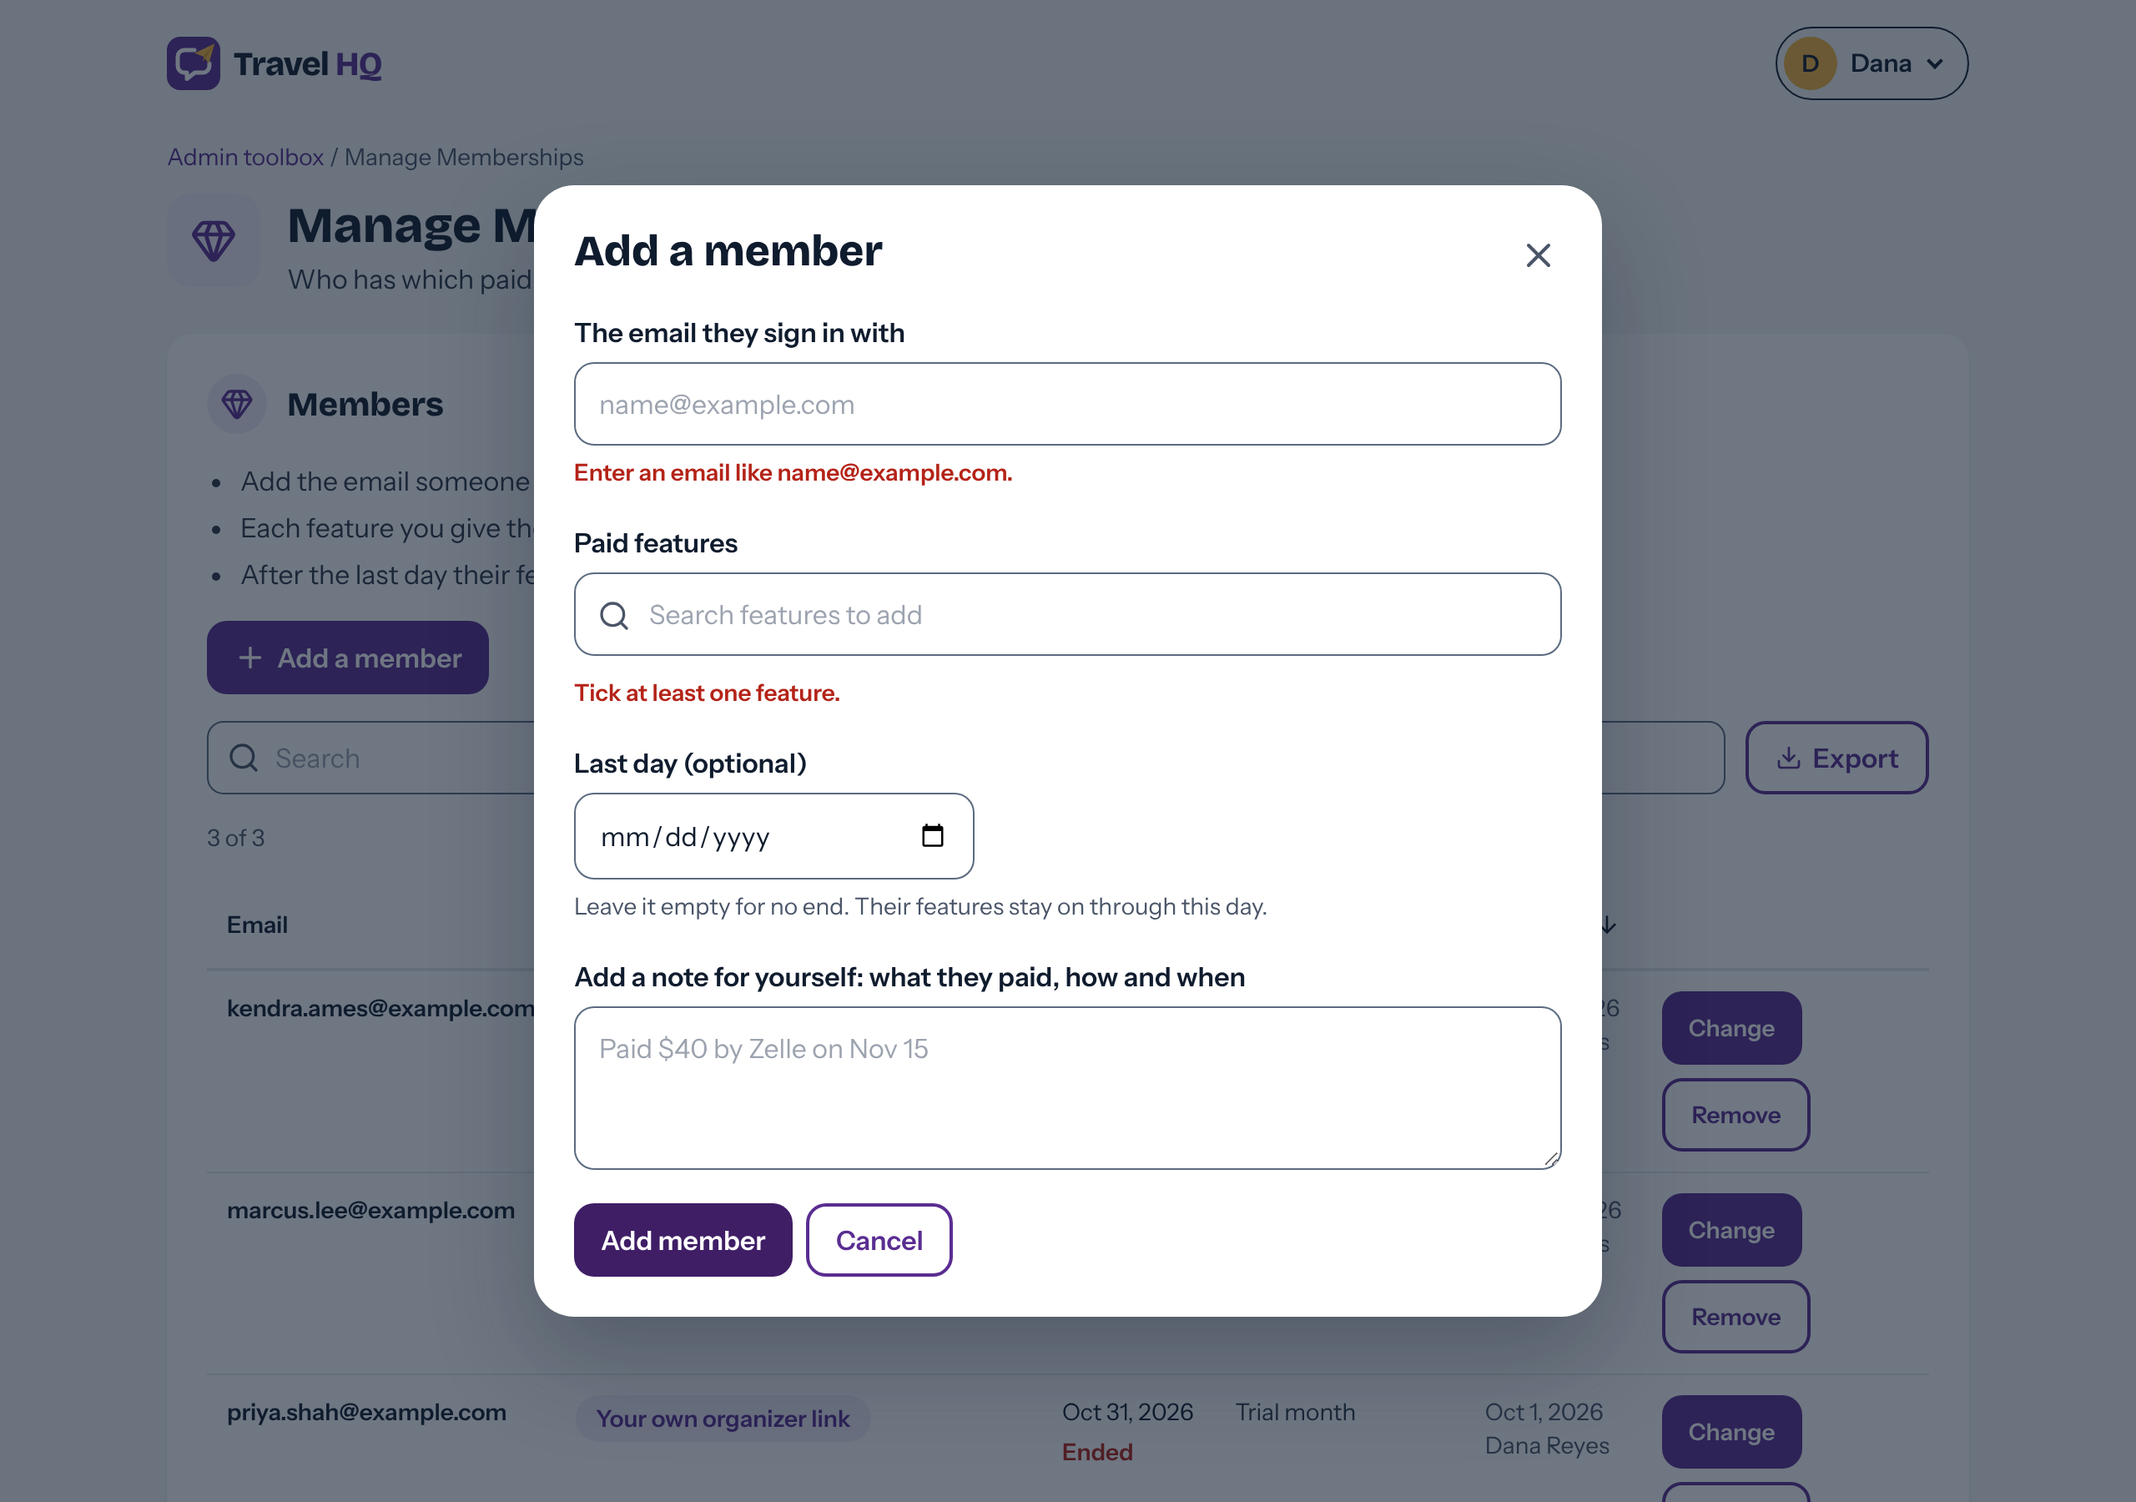
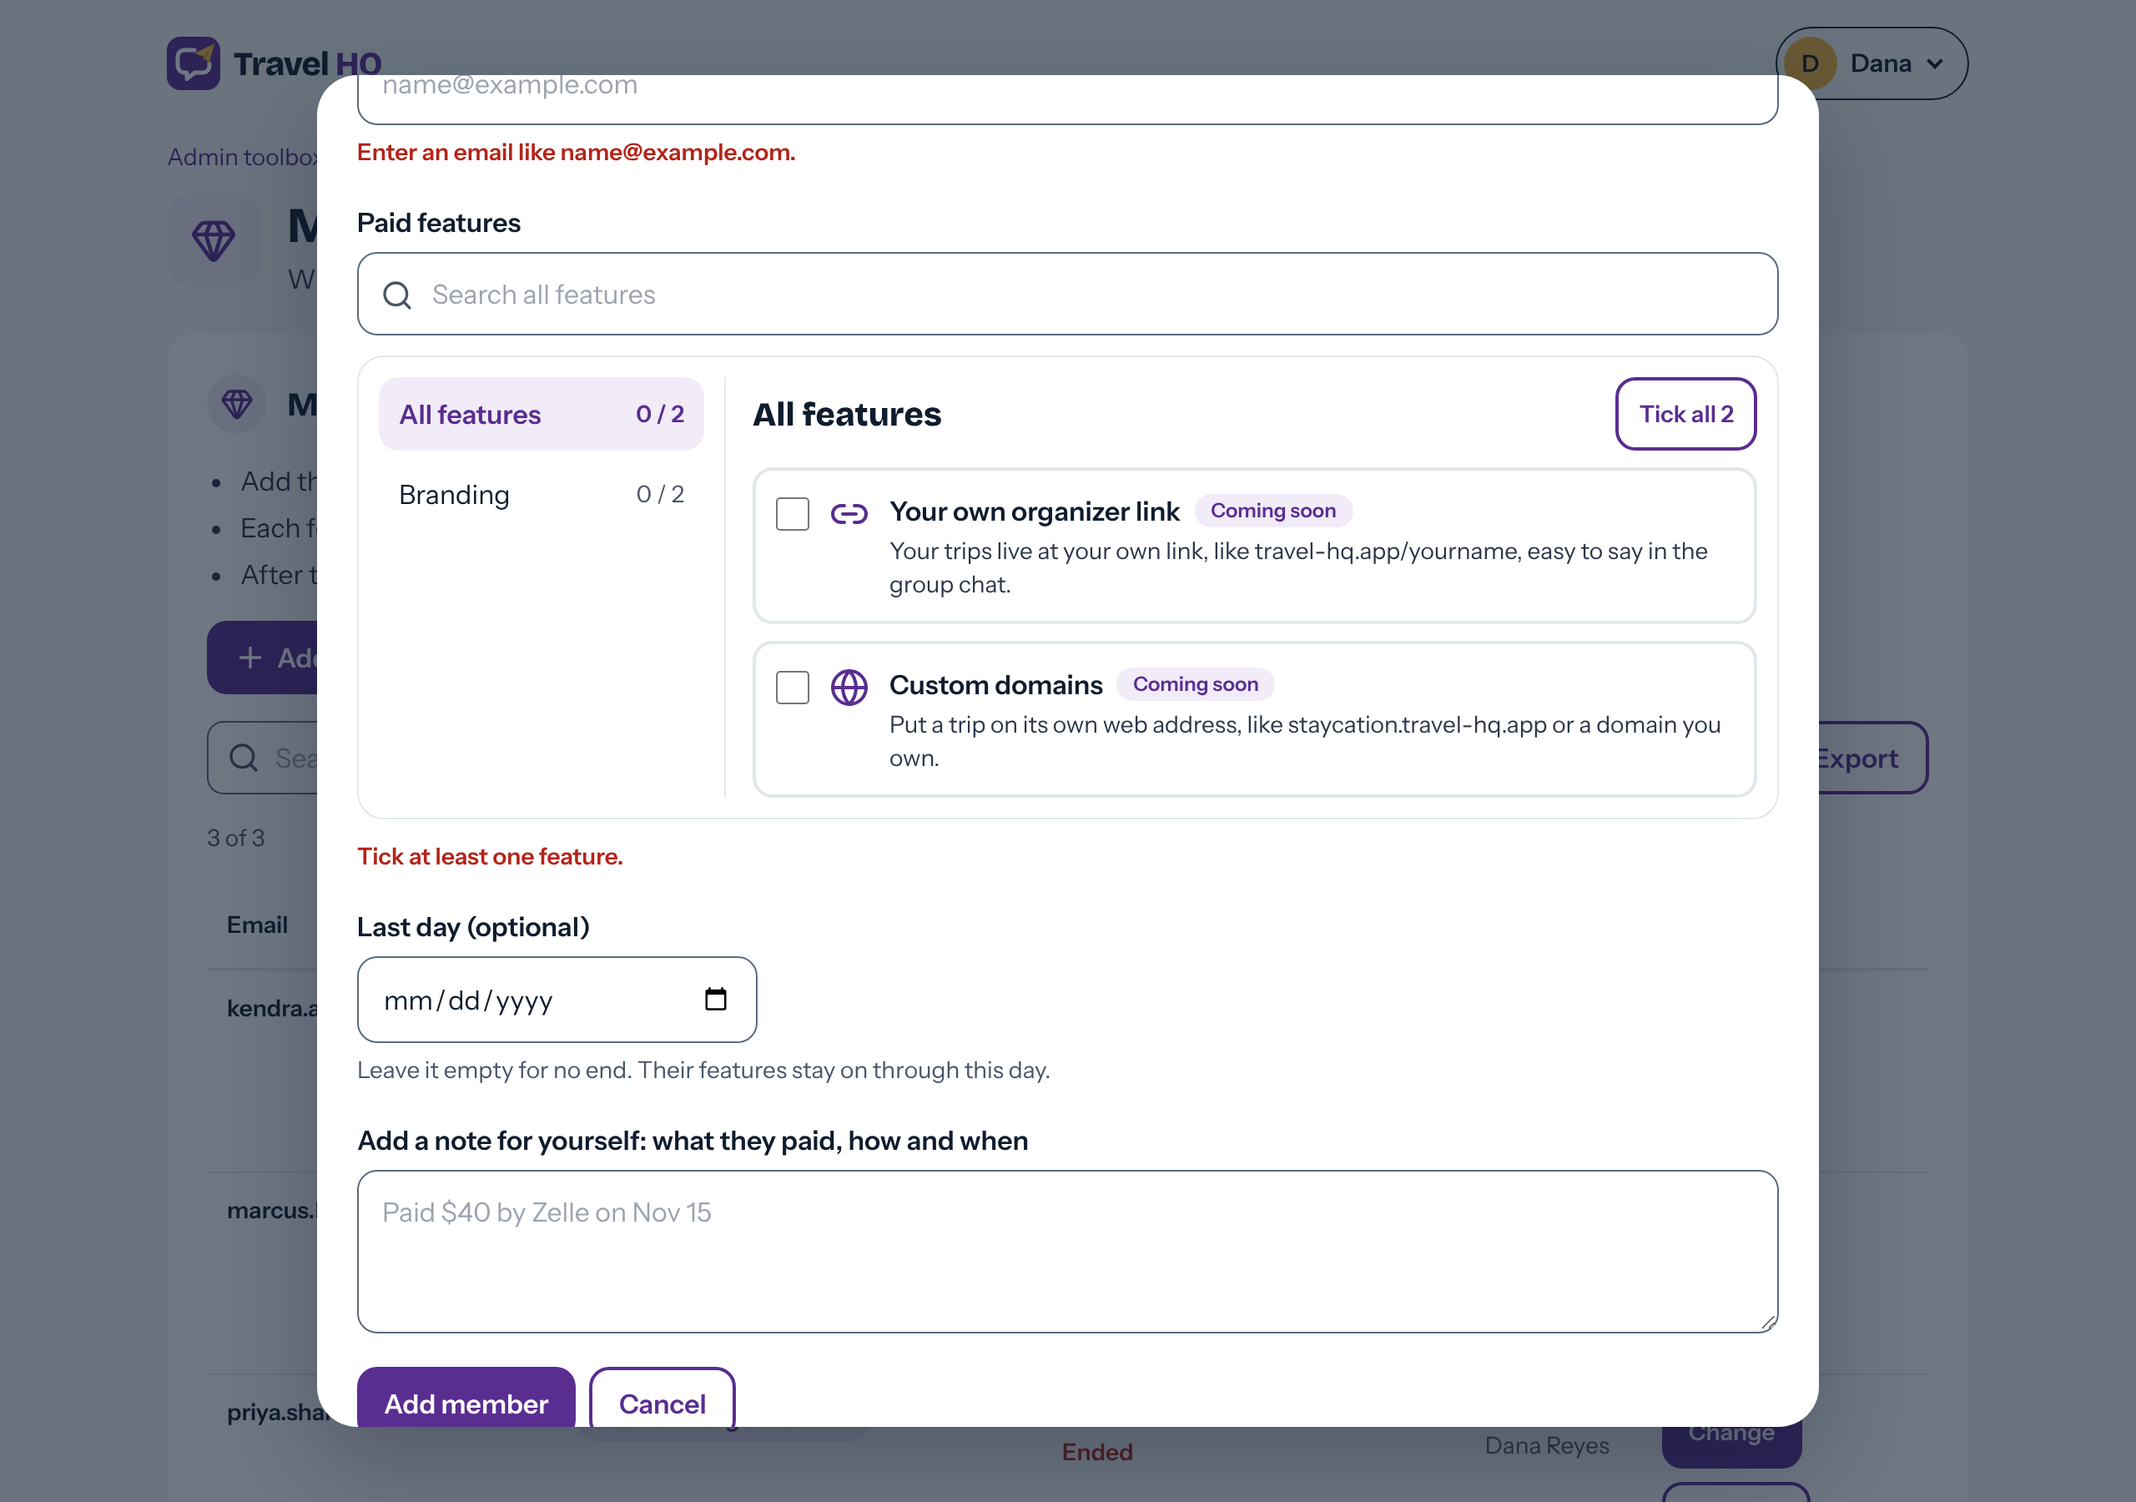
[Platform] Paid features grouped in buckets: buckets left, features right
Each paid feature names its bucket in code (PAID_FEATURES). The member
dialog lists the buckets with counts on the left and the chosen bucket's
features as tick tiles on the right, with Tick all and a search across
every feature. A bucket only ticks features; nothing about buckets is
stored. No help answers changed.

Refs #90

Changed region(s): [[0.125, 0.0311, 0.875, 0.9644]]

diff --git a/apps/web/src/pages/AdminMembershipsPage.tsx b/apps/web/src/pages/AdminMembershipsPage.tsx
@@ -5,8 +5,8 @@ import {
   type MembershipInput,
   type PaidFeature,
 } from '@cc/types'
-import { Check, Gem, Globe, Link2, Plus, Search, X, type LucideIcon } from 'lucide-react'
-import { useEffect, useId, useState, type FormEvent, type KeyboardEvent } from 'react'
+import { Gem, Globe, Link2, Plus, Search, type LucideIcon } from 'lucide-react'
+import { useEffect, useId, useState, type FormEvent } from 'react'
 import { AdminGrid, type GridColumn } from '@/components/AdminGrid'
 import { ConfirmDialog } from '@/components/ConfirmDialog'
 import { Dialog } from '@/components/Dialog'
@@ -299,7 +299,7 @@ function MemberDialog({
   }
 
   return (
-    <Dialog title={member ? 'Change paid features' : 'Add a member'} onClose={onClose}>
+    <Dialog title={member ? 'Change paid features' : 'Add a member'} onClose={onClose} wide>
       <form onSubmit={save} className="flex flex-col gap-5" noValidate>
         {error && (
           <p role="alert" className="font-semibold text-[#B42318]">
@@ -373,6 +373,24 @@ function MemberDialog({
  * Picking features (owner's ask, 2026-11-15): a search box that lists the matching features with tick boxes, and the
  * ticked ones below as tiles, each with Remove.
  */
+const BUCKETS = [...new Set(PAID_FEATURES.map((f) => f.bucket))]
+
+/** "3 features: all of Branding, 1 from Messaging". */
+function pickedSummary(features: PaidFeature[]): string {
+  const parts = BUCKETS.flatMap((b) => {
+    const all = PAID_FEATURES.filter((f) => f.bucket === b)
+    const n = all.filter((f) => features.includes(f.key)).length
+    if (n === 0) return []
+    return [n === all.length ? `all of ${b}` : `${n} from ${b}`]
+  })
+  const n = features.length
+  return `${n} ${n === 1 ? 'feature' : 'features'}: ${parts.join(', ')}`
+}
+
+/**
+ * Buckets on the left, the chosen bucket's features on the right (Chow's option C, 2026-11-15). A bucket only
+ * ticks its features; the search looks through every feature.
+ */
 function FeaturePicker({
   features,
   onToggle,
@@ -383,35 +401,44 @@ function FeaturePicker({
   problem: string | null
 }) {
   const [query, setQuery] = useState('')
-  const [open, setOpen] = useState(false)
-  const [active, setActive] = useState(0)
+  const [bucket, setBucket] = useState<string | null>(null)
   const uid = useId()
   const words = query.trim().toLowerCase().split(/\s+/).filter(Boolean)
-  const found = PAID_FEATURES.filter((f) =>
-    words.every((w) => `${f.title} ${f.text}`.toLowerCase().includes(w))
-  )
-  const picked = PAID_FEATURES.filter((f) => features.includes(f.key))
-
-  function onKey(e: KeyboardEvent) {
-    if (e.key === 'ArrowDown') {
-      setOpen(true)
-      setActive((i) => Math.min(found.length - 1, i + 1))
-    } else if (e.key === 'ArrowUp') setActive((i) => Math.max(0, i - 1))
-    else if (e.key === 'Enter' && open && found[active]) {
-      const k = found[active].key
-      onToggle(k, !features.includes(k))
-    } else return
-    e.preventDefault()
+  const shown = words.length
+    ? PAID_FEATURES.filter((f) =>
+        words.every((w) => `${f.title} ${f.text} ${f.bucket}`.toLowerCase().includes(w))
+      )
+    : PAID_FEATURES.filter((f) => bucket === null || f.bucket === bucket)
+  const heading = words.length ? 'Matches' : (bucket ?? 'All features')
+  const allOn = shown.length > 0 && shown.every((f) => features.includes(f.key))
+  const count = (b: string | null) => {
+    const all = PAID_FEATURES.filter((f) => b === null || f.bucket === b)
+    return `${all.filter((f) => features.includes(f.key)).length} / ${all.length}`
+  }
+  const navItem = (b: string | null) => {
+    const on = !words.length && bucket === b
+    return (
+      <button
+        key={b ?? 'all'}
+        type="button"
+        aria-pressed={on}
+        onClick={() => {
+          setBucket(b)
+          setQuery('')
+        }}
+        className={`flex min-h-[44px] items-center gap-3 rounded-xl px-3 text-left ${
+          on ? 'bg-royal-pale font-semibold text-royal' : 'text-ink hover:bg-ground'
+        }`}
+      >
+        <span className="flex-1">{b ?? 'All features'}</span>
+        <span className={`text-sm ${on ? 'text-royal' : 'text-muted'}`}>{count(b)}</span>
+      </button>
+    )
   }
 
   return (
     <div className="flex flex-col gap-3">
-      <div
-        className="relative"
-        onBlur={(e) => {
-          if (!e.currentTarget.contains(e.relatedTarget as Node | null)) setOpen(false)
-        }}
-      >
+      <div className="relative">
         <label htmlFor={`${uid}-search`} className="mb-1.5 block font-semibold text-ink">
           Paid features
         </label>
@@ -422,98 +449,83 @@ function FeaturePicker({
         <input
           id={`${uid}-search`}
           type="text"
-          role="combobox"
-          aria-expanded={open}
-          aria-controls={`${uid}-list`}
-          aria-activedescendant={open && found[active] ? `${uid}-${active}` : undefined}
           autoComplete="off"
           value={query}
-          placeholder="Search features to add"
-          onFocus={() => setOpen(true)}
-          onClick={() => setOpen(true)}
-          onChange={(e) => {
-            setQuery(e.target.value)
-            setActive(0)
-            setOpen(true)
-          }}
-          onKeyDown={onKey}
+          placeholder="Search all features"
+          onChange={(e) => setQuery(e.target.value)}
           className={`${field} pl-11`}
         />
-        {open && (
-          <ul
-            id={`${uid}-list`}
-            role="listbox"
-            aria-multiselectable="true"
-            aria-label="Paid features"
-            className="absolute left-0 top-[calc(100%+6px)] z-20 w-full rounded-2xl border border-rule bg-white p-2 shadow-[0_16px_40px_rgba(15,28,46,0.14)]"
-          >
-            {found.length === 0 && <li className="px-3 py-2.5 text-body">No feature matches.</li>}
-            {found.map((f, i) => {
-              const on = features.includes(f.key)
-              return (
-                <li
-                  key={f.key}
-                  id={`${uid}-${i}`}
-                  role="option"
-                  aria-selected={on}
-                  // Keeps the focus in the search box, so the list stays open while ticking.
-                  onMouseDown={(e) => e.preventDefault()}
-                  onClick={() => onToggle(f.key, !on)}
-                  onPointerEnter={() => setActive(i)}
-                  className={`flex min-h-[44px] cursor-pointer items-center gap-2.5 rounded-xl px-3 ${
-                    i === active ? 'bg-royal-pale' : ''
-                  }`}
-                >
-                  <span
-                    className={`flex h-5 w-5 shrink-0 items-center justify-center rounded-md border ${
-                      on ? 'border-royal bg-royal text-white' : 'border-rule bg-white'
-                    }`}
-                    aria-hidden="true"
-                  >
-                    {on && <Check className="h-3.5 w-3.5" />}
-                  </span>
-                  <span className="text-ink">{f.title}</span>
-                  {!f.built && <span className="text-sm text-muted">Coming soon</span>}
-                </li>
-              )
-            })}
-          </ul>
-        )}
       </div>
-      {problem && <span className={problemText}>{problem}</span>}
-      {picked.length > 0 && (
-        <ul className="flex flex-col gap-2" aria-label="Their features">
-          {picked.map((f) => {
+      <div className="flex flex-col gap-3 rounded-2xl border border-rule p-3 sm:flex-row sm:gap-4">
+        <nav
+          aria-label="Feature buckets"
+          className="flex flex-col gap-1 border-b border-rule pb-3 sm:w-52 sm:shrink-0 sm:border-b-0 sm:border-r sm:pb-0 sm:pr-3"
+        >
+          {navItem(null)}
+          {BUCKETS.map(navItem)}
+        </nav>
+        <section aria-labelledby={`${uid}-head`} className="flex min-w-0 flex-1 flex-col gap-2.5">
+          <div className="flex flex-wrap items-center justify-between gap-2">
+            <h3 id={`${uid}-head`} className="text-xl font-bold text-ink">
+              {heading}
+            </h3>
+            {shown.length > 1 && (
+              <button
+                type="button"
+                onClick={() =>
+                  shown.forEach((f) => {
+                    if (features.includes(f.key) === allOn) onToggle(f.key, !allOn)
+                  })
+                }
+                className="inline-flex min-h-[44px] items-center rounded-xl border-2 border-royal bg-white px-3 text-sm font-semibold text-royal hover:bg-royal-pale"
+              >
+                {allOn ? `Untick all ${shown.length}` : `Tick all ${shown.length}`}
+              </button>
+            )}
+          </div>
+          {shown.length === 0 && <p className="text-body">No feature matches.</p>}
+          {shown.map((f) => {
+            const on = features.includes(f.key)
             const Art = FEATURE_ART[f.key]
             return (
-              <li
+              <label
                 key={f.key}
-                className="flex items-start gap-3 rounded-xl border-2 border-royal bg-royal-pale p-3"
+                className={`flex cursor-pointer items-start gap-3 rounded-xl border-2 p-3 ${
+                  on ? 'border-royal bg-royal-pale' : 'border-rule bg-white hover:border-royal'
+                }`}
               >
+                <input
+                  type="checkbox"
+                  checked={on}
+                  onChange={(e) => onToggle(f.key, e.target.checked)}
+                  className="mt-1 h-5 w-5 shrink-0 accent-royal"
+                />
                 <Art className="mt-0.5 h-6 w-6 shrink-0 text-royal" aria-hidden="true" />
                 <span className="flex min-w-0 flex-1 flex-col gap-0.5">
                   <span className="flex flex-wrap items-center gap-2 font-semibold text-ink">
                     {f.title}
                     {!f.built && (
-                      <span className="rounded-full bg-white px-2.5 py-0.5 text-xs font-semibold text-royal">
+                      <span
+                        className={`rounded-full px-2.5 py-0.5 text-xs font-semibold text-royal ${
+                          on ? 'bg-white' : 'bg-royal-pale'
+                        }`}
+                      >
                         Coming soon
                       </span>
                     )}
                   </span>
-                  <span className="text-sm text-body">{f.text}</span>
+                  <span className="text-sm font-normal text-body">{f.text}</span>
+                  {words.length > 0 && <span className="text-sm text-muted">In {f.bucket}</span>}
                 </span>
-                <button
-                  type="button"
-                  onClick={() => onToggle(f.key, false)}
-                  aria-label={`Remove ${f.title}`}
-                  className="inline-flex min-h-[44px] min-w-[44px] shrink-0 items-center justify-center rounded-xl border border-royal bg-white text-royal hover:bg-royal-pale"
-                >
-                  <X className="h-5 w-5" aria-hidden="true" />
-                </button>
-              </li>
+              </label>
             )
           })}
-        </ul>
+        </section>
+      </div>
+      {problem ? (
+        <span className={problemText}>{problem}</span>
+      ) : (
+        features.length > 0 && <p className="text-sm text-body">{pickedSummary(features)}</p>
       )}
     </div>
   )

diff --git a/apps/web/src/components/Dialog.tsx b/apps/web/src/components/Dialog.tsx
@@ -8,10 +8,13 @@ import { useEffect, useRef, type ReactNode } from 'react'
 export function Dialog({
   title,
   onClose,
+  wide = false,
   children,
 }: {
   title: string
   onClose: () => void
+  /** A wider panel on a computer, for a task with two columns. */
+  wide?: boolean
   children: ReactNode
 }) {
   const panel = useRef<HTMLDivElement>(null)
@@ -73,7 +76,7 @@ export function Dialog({
         role="dialog"
         aria-modal="true"
         aria-label={title}
-        className="flex max-h-[100dvh] w-full flex-col overflow-y-auto bg-white p-6 shadow-[0_24px_60px_rgba(15,28,46,0.3)] sm:max-h-[90vh] sm:max-w-[640px] sm:rounded-3xl"
+        className={`flex max-h-[100dvh] w-full flex-col overflow-y-auto bg-white p-6 shadow-[0_24px_60px_rgba(15,28,46,0.3)] sm:max-h-[90vh] ${wide ? 'sm:max-w-[900px]' : 'sm:max-w-[640px]'} sm:rounded-3xl`}
       >
         <div className="mb-3 flex items-start justify-between gap-3">
           <h2 className="text-[26px] font-extrabold leading-tight">{title}</h2>

diff --git a/apps/api/src/trips/trip-types.ts b/apps/api/src/trips/trip-types.ts
@@ -1904,17 +1904,29 @@ export interface OpenSignupsResult {
  */
 export type PaidFeature = 'organizer_link' | 'custom_domain'
 
-export const PAID_FEATURES: { key: PaidFeature; title: string; text: string; built: boolean }[] = [
+/**
+ * Paid features, in the order the admin sees them. `bucket` groups them in Manage Memberships; it is only a
+ * shortcut for ticking several at once, never stored on a membership.
+ */
+export const PAID_FEATURES: {
+  key: PaidFeature
+  title: string
+  text: string
+  bucket: string
+  built: boolean
+}[] = [
   {
     key: 'organizer_link',
     title: 'Your own organizer link',
     text: 'Your trips live at your own link, like travel-hq.app/yourname, easy to say in the group chat.',
+    bucket: 'Branding',
     built: false,
   },
   {
     key: 'custom_domain',
     title: 'Custom domains',
     text: 'Put a trip on its own web address, like staycation.travel-hq.app or a domain you own.',
+    bucket: 'Branding',
     built: false,
   },
 ]

diff --git a/packages/types/src/index.ts b/packages/types/src/index.ts
@@ -1902,17 +1902,29 @@ export interface OpenSignupsResult {
  */
 export type PaidFeature = 'organizer_link' | 'custom_domain'
 
-export const PAID_FEATURES: { key: PaidFeature; title: string; text: string; built: boolean }[] = [
+/**
+ * Paid features, in the order the admin sees them. `bucket` groups them in Manage Memberships; it is only a
+ * shortcut for ticking several at once, never stored on a membership.
+ */
+export const PAID_FEATURES: {
+  key: PaidFeature
+  title: string
+  text: string
+  bucket: string
+  built: boolean
+}[] = [
   {
     key: 'organizer_link',
     title: 'Your own organizer link',
     text: 'Your trips live at your own link, like travel-hq.app/yourname, easy to say in the group chat.',
+    bucket: 'Branding',
     built: false,
   },
   {
     key: 'custom_domain',
     title: 'Custom domains',
     text: 'Put a trip on its own web address, like staycation.travel-hq.app or a domain you own.',
+    bucket: 'Branding',
     built: false,
   },
 ]
